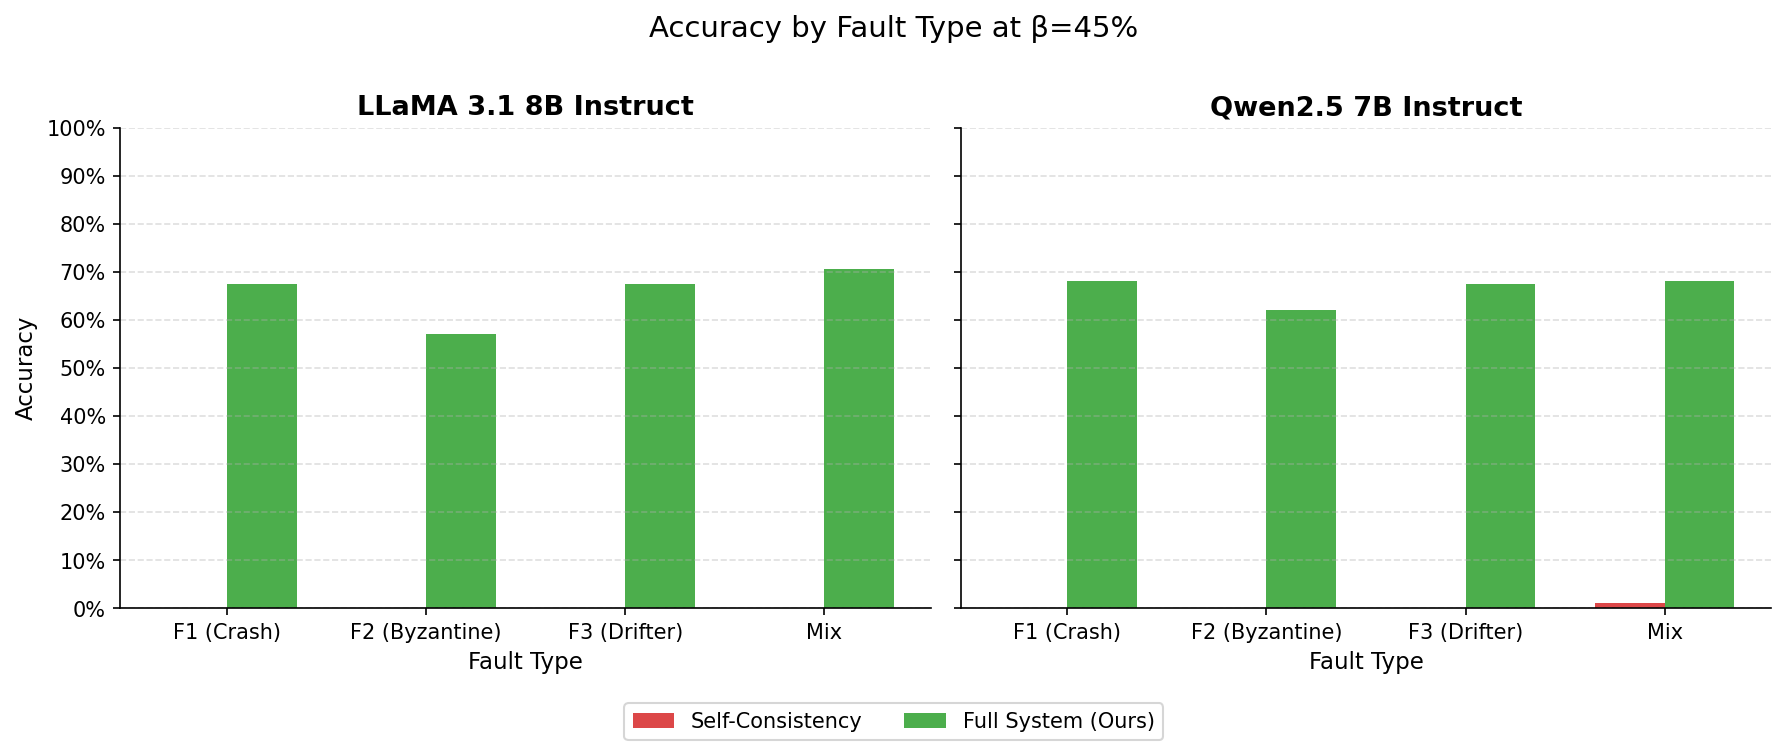
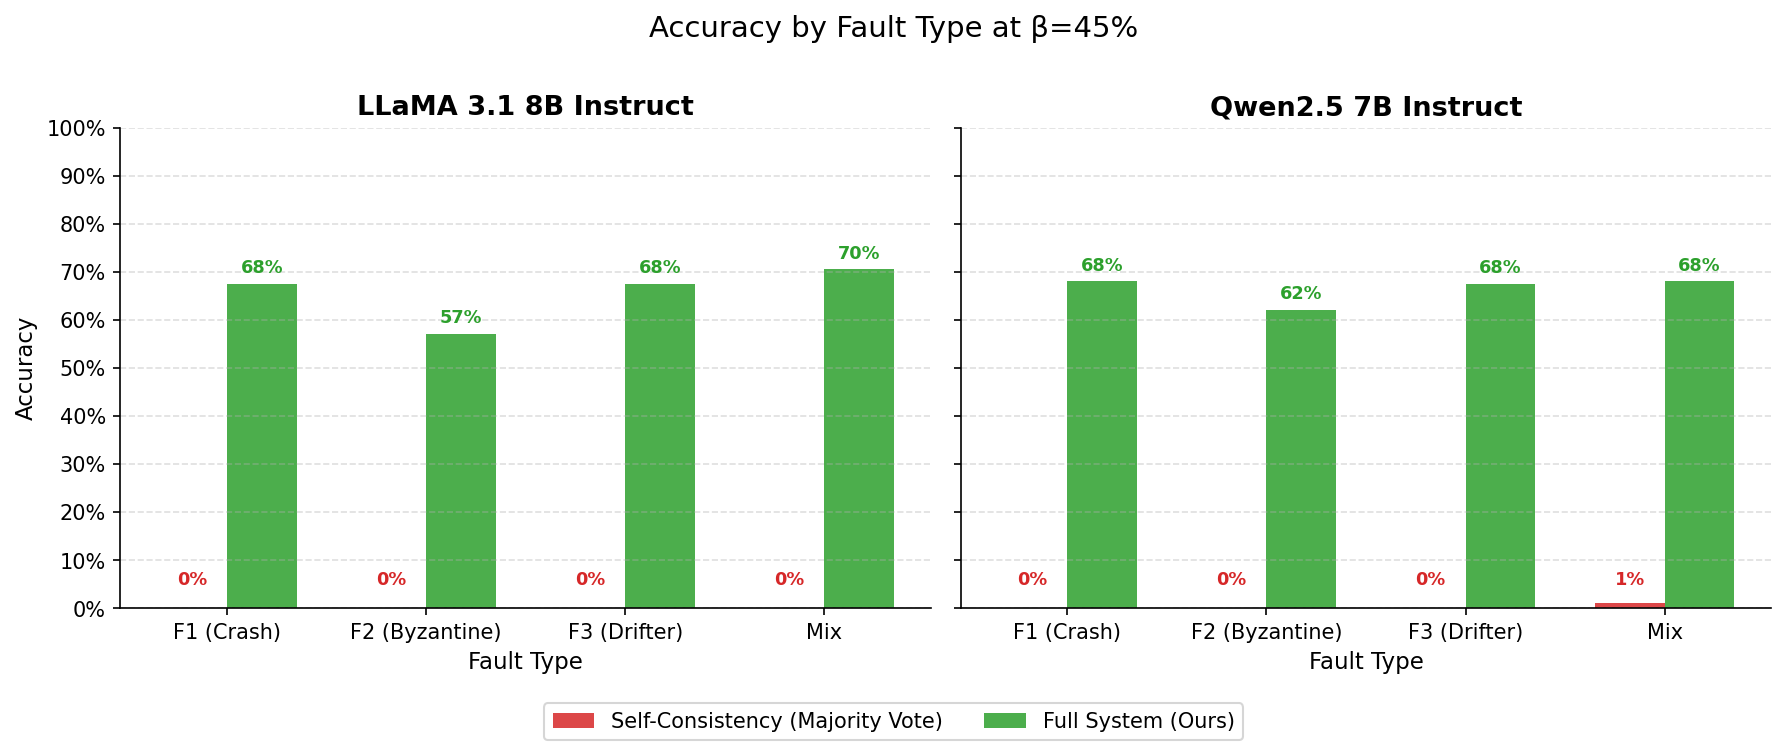
tweak figures

diff --git a/scripts/plot_results.py b/scripts/plot_results.py
@@ -69,6 +69,7 @@ def plot_accuracy_vs_beta(
     llama_csv: str,
     qwen_csv: str,
     output_path: str,
+    show_n1: bool = True,
 ) -> None:
     llama_table, llama_n1 = _load(llama_csv)
     qwen_table, qwen_n1 = _load(qwen_csv)
@@ -81,9 +82,9 @@ def plot_accuracy_vs_beta(
         (axes[0], llama_table, llama_n1, "LLaMA 3.1 8B Instruct"),
         (axes[1], qwen_table, qwen_n1, "Qwen2.5 7B Instruct"),
     ]:
-        # N=1 reference line
-        ax.axhline(n1_acc, color="gray", linestyle=":", linewidth=1.2,
-                   label=f"Single Agent (N=1, {n1_acc:.2f})")
+        if show_n1:
+            ax.axhline(n1_acc, color="gray", linestyle=":", linewidth=1.2,
+                       label=f"Single Agent (N=1, {n1_acc:.2f})")
 
         for cond in _CONDITIONS:
             y = [table[cond].get(b, 0.0) for b in _BETAS]
@@ -147,7 +148,7 @@ def plot_fault_type_breakdown(
         width = 0.35
 
         for offset, cond, color, label in [
-            (-width / 2, "baseline", _COLORS["baseline"], "Self-Consistency"),
+            (-width / 2, "baseline", _COLORS["baseline"], "Self-Consistency (Majority Vote)"),
             (width / 2, "full_system", _COLORS["full_system"], "Full System (Ours)"),
         ]:
             y = []
@@ -156,7 +157,15 @@ def plot_fault_type_breakdown(
                         if r["condition"] == cond and r["beta"] == beta
                         and r["fault_type"] == ft and r["n_agents"] != 1.0]
                 y.append(sum(vals) / len(vals) if vals else 0.0)
-            ax.bar(x + offset, y, width, label=label, color=color, alpha=0.85)
+            bars = ax.bar(x + offset, y, width, label=label, color=color, alpha=0.85)
+            for bar, val in zip(bars, y):
+                label_y = bar.get_height() + 0.015
+                va = "bottom"
+                if val < 0.04:
+                    label_y = 0.04
+                ax.text(bar.get_x() + bar.get_width() / 2, label_y,
+                        f"{val:.0%}", ha="center", va=va, fontsize=8.5,
+                        color=color, fontweight="bold")
 
         ax.set_title(title, fontsize=13, fontweight="bold")
         ax.set_xlabel("Fault Type", fontsize=11)
@@ -173,7 +182,7 @@ def plot_fault_type_breakdown(
     handles, labels = axes[0].get_legend_handles_labels()
     fig.legend(handles, labels, loc="lower center", ncol=2, fontsize=10,
                frameon=True, bbox_to_anchor=(0.5, -0.08))
-    fig.suptitle(f"Accuracy by Fault Type at β=45%", fontsize=14, y=1.01)
+    fig.suptitle("Accuracy by Fault Type at β=45%", fontsize=14, y=1.01)
     plt.tight_layout()
 
     os.makedirs(os.path.dirname(output_path), exist_ok=True)
@@ -186,11 +195,20 @@ if __name__ == "__main__":
     llama_csv = os.path.join(_RESULTS_DIR, "experiment_1_llama.csv")
     qwen_csv = os.path.join(_RESULTS_DIR, "experiment_1_qwen.csv")
 
+    # With single-agent reference line (supplementary / appendix)
     plot_accuracy_vs_beta(
         llama_csv, qwen_csv,
         os.path.join(_FIGURES_DIR, "accuracy_vs_beta.png"),
+        show_n1=True,
     )
     plot_fault_type_breakdown(
         llama_csv, qwen_csv,
         os.path.join(_FIGURES_DIR, "fault_type_breakdown.png"),
+    )
+
+    # Without single-agent reference line (main paper body)
+    plot_accuracy_vs_beta(
+        llama_csv, qwen_csv,
+        os.path.join(_FIGURES_DIR, "accuracy_vs_beta_no_n1.png"),
+        show_n1=False,
     )

diff --git a/docs/DESIGN_DOC.md b/docs/DESIGN_DOC.md
@@ -238,7 +238,7 @@ Two figures are generated by `scripts/plot_results.py` from the merged 192-row C
 #### Figure 1: `figures/accuracy_vs_beta.png` — Accuracy vs. Fault Fraction
 
 Two-panel line chart (LLaMA left, Qwen right). X-axis: β ∈ {0%, 15%, 30%, 45%}. Y-axis: accuracy. Five series per panel:
-- **Single Agent (N=1, dotted grey):** Flat reference line at 0.71 (LLaMA) / 0.69 (Qwen). No consensus, no fault resilience.
+- **Single Agent (N=1, dotted grey):** Flat reference line at 0.71 (LLaMA) / 0.69 (Qwen). No consensus, no fault resilience. **Caveat:** This line is flat not because a single agent is fault-tolerant, but because `inject_faults` injects `floor(N × β)` faults — at N=1, `floor(1 × 0.45) = 0` for all β < 1.0, so the single agent is always evaluated on a clean, unmodified output. The line represents a *permanently clean* single agent, not a single agent subject to the same fault rate as the other conditions. The correct reading is: "our full system at β=45% approaches the accuracy of a guaranteed-clean single agent, even when 45% of the pool is faulty." A separate set of figures (`figures/accuracy_vs_beta_no_n1.png`, `figures/fault_type_breakdown_no_n1.png`) omits this line to avoid visual confusion in the main paper body.
 - **Self-Consistency / baseline (red dashed):** Matches single-agent at β=0–15%, then collapses to ~0% at β=30–45%. Visually disappears into the x-axis.
 - **Soft-Weighted SC (orange dotted):** Degrades more gracefully than baseline but still falls to 36–34% at β=45%.
 - **Hard Filter + Majority / hard_only (blue dash-dot):** Better than soft-weighting at β=30%, but drops to 29% at β=45% as Module 1 fallback fires more frequently.
@@ -255,3 +255,5 @@ Two-panel grouped bar chart. X-axis: fault types F1 (Crash), F2 (Byzantine), F3 
 - **Mix fault type** achieves the highest `full_system` accuracy (0.705 LLaMA, 0.680 Qwen) because the mixture of F1/F2/F3 means fewer pure Byzantine agents than the worst-case F2-only scenario.
 
 **Key visual story:** The full system maintains meaningful accuracy under every fault type at maximum fault load; self-consistency provides zero resilience regardless of fault type.
+
+**Paper caption note:** Include the following explanation in the figure caption: *"Self-Consistency (Majority Vote) collapses to 0% under all fault types because 2 coordinated Byzantine agents share the same wrong answer, outvoting 3 clean agents whose correct answers are phrased differently."*
